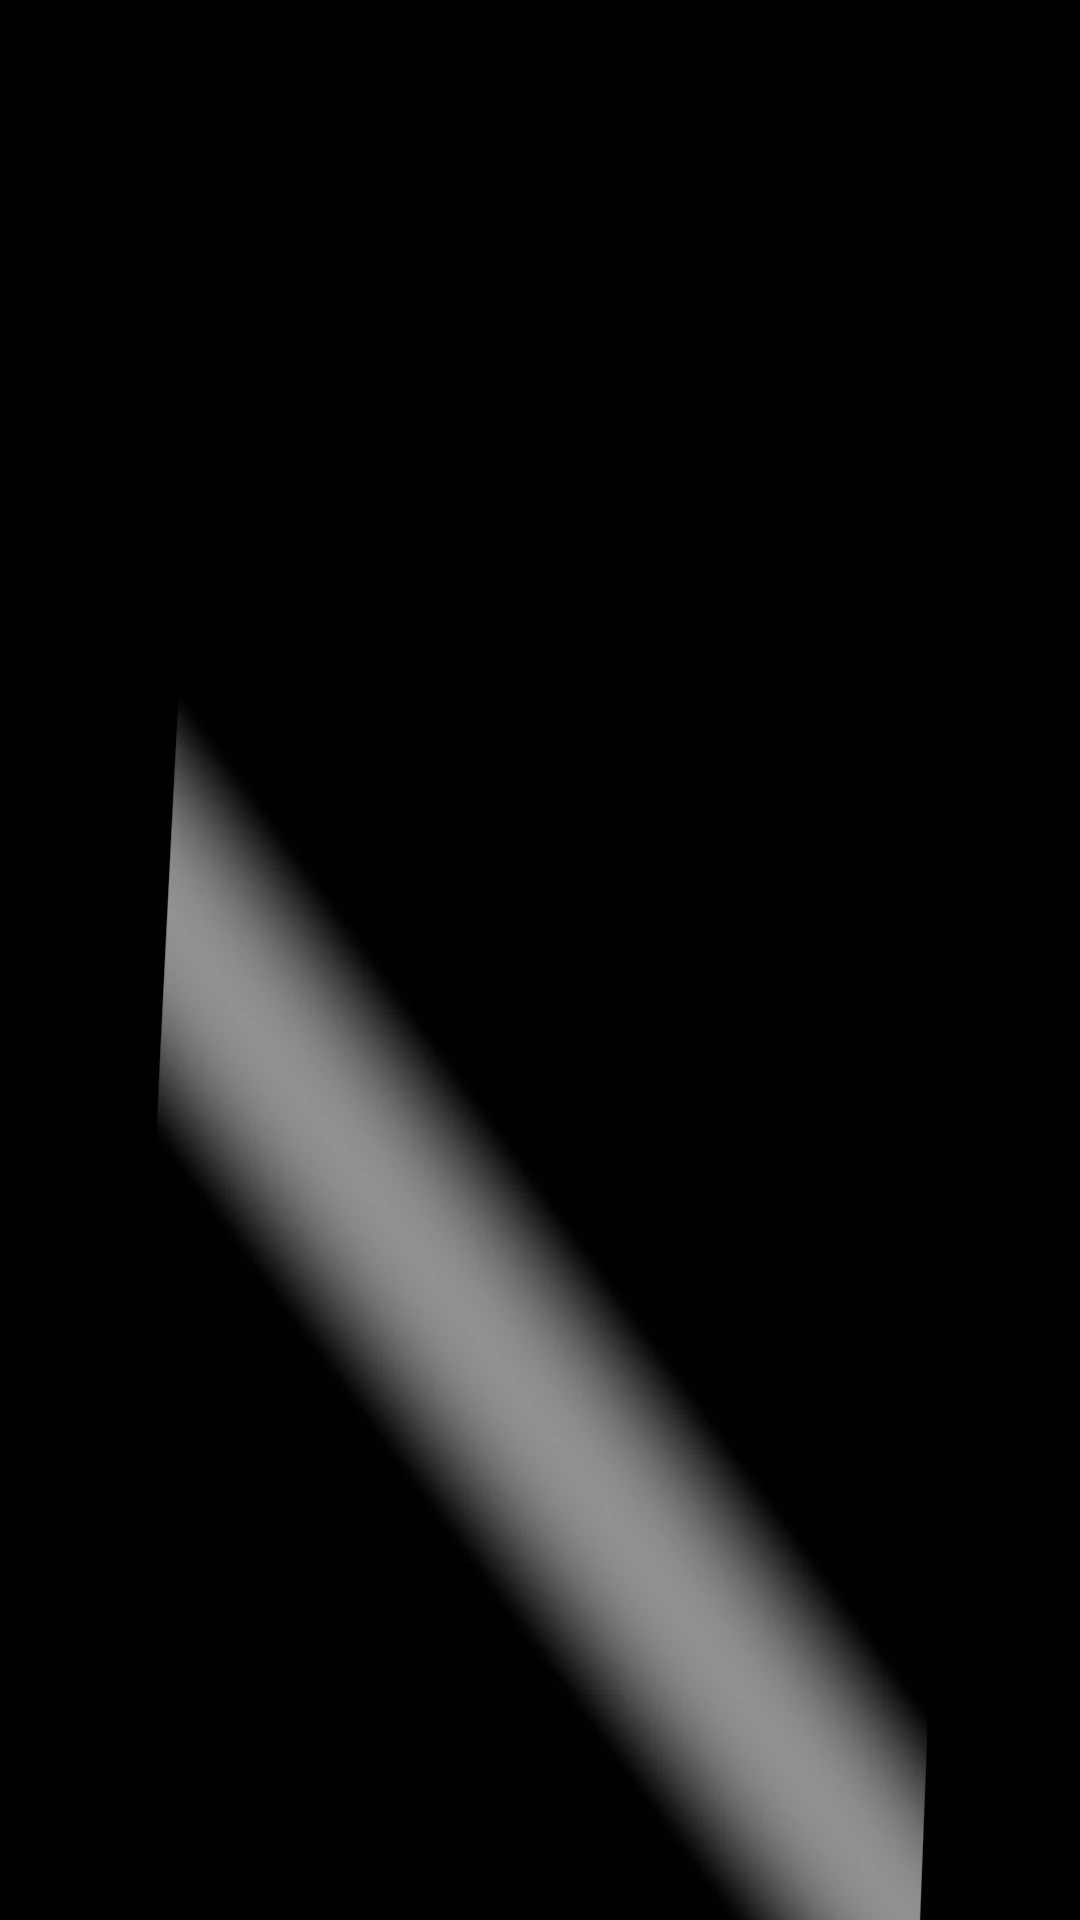
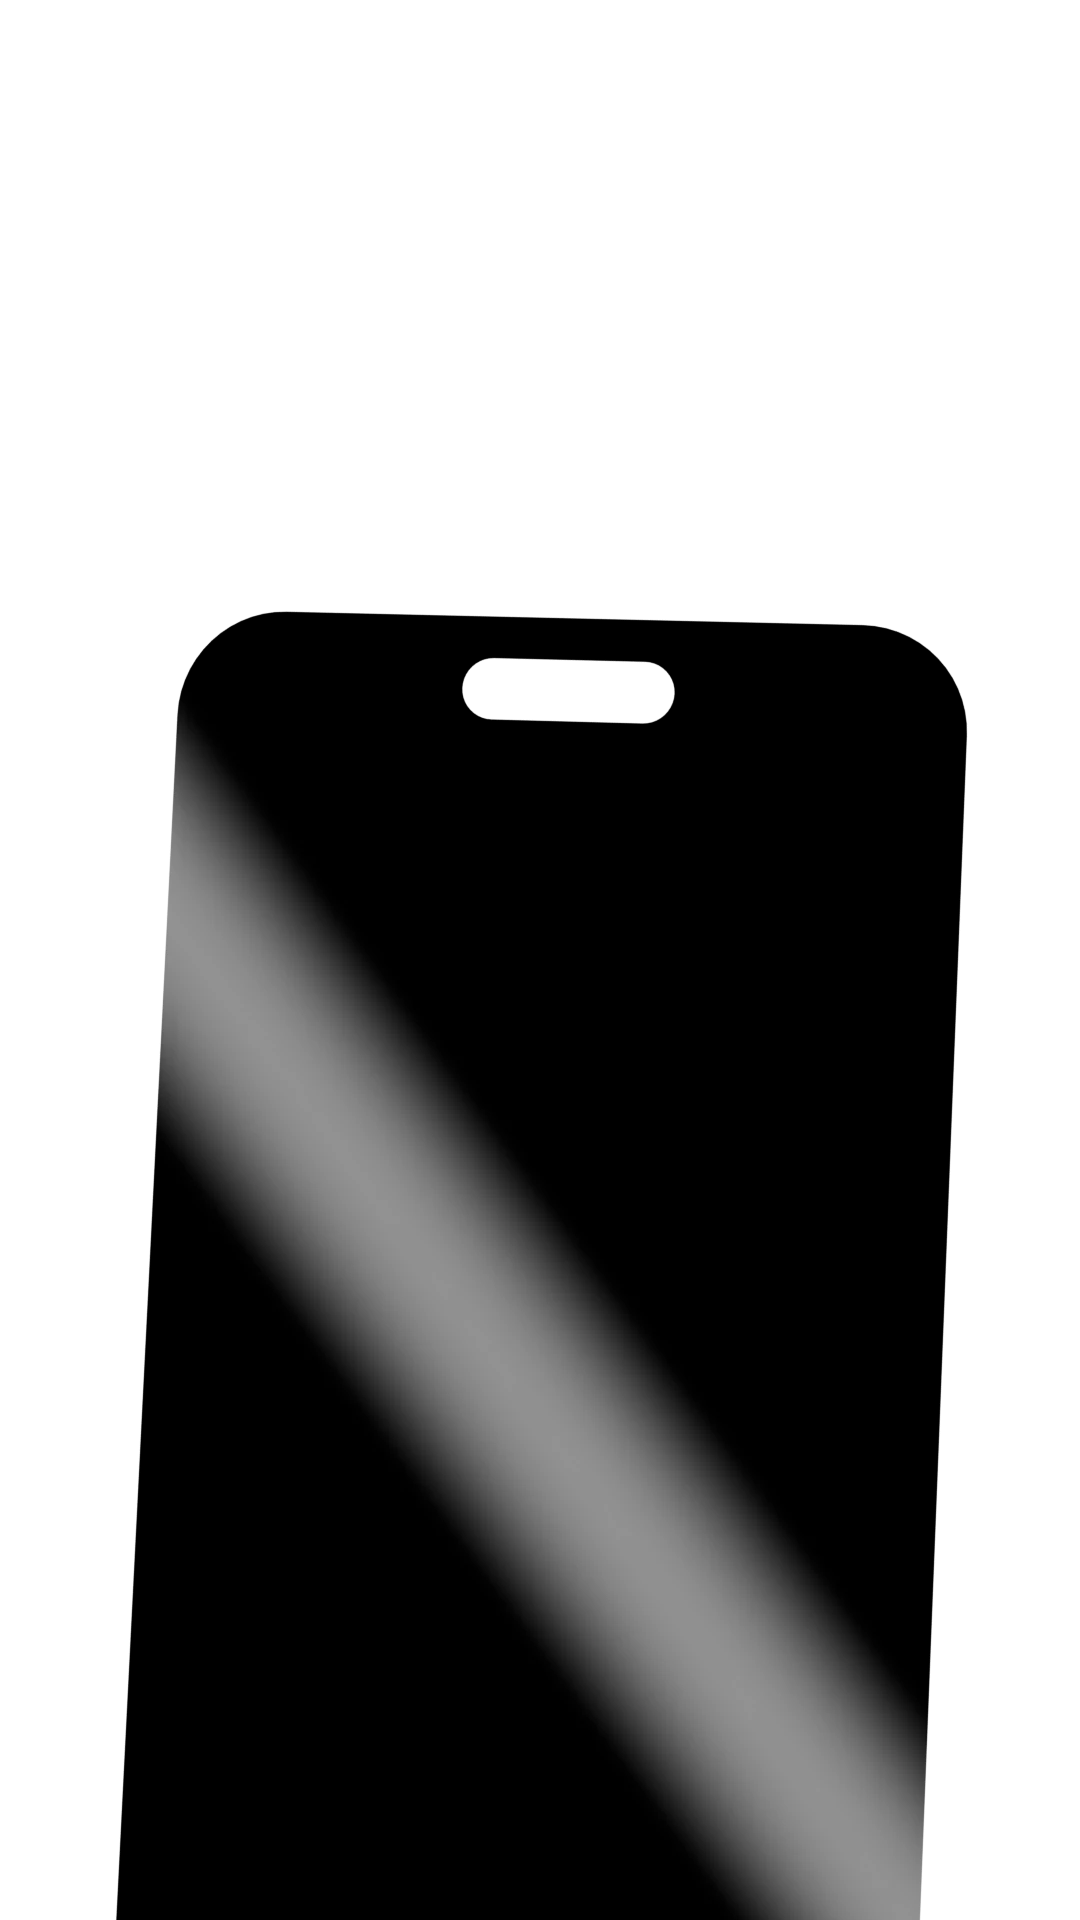
Vídeo: giro completo do celular, reflexo da tela com transparência e barra de status
Claude-Session: https://claude.ai/code/session_014CFV4YqhbK1feddGqeVc6C

diff --git a/video/stage.html b/video/stage.html
@@ -94,7 +94,7 @@ em { font-family: var(--serif); font-style: italic; font-weight: 400; letter-spa
 .chat-head b { display: block; font-family: var(--heading); font-size: 38px; font-weight: 700; letter-spacing: -.02em; }
 .chat-head small { display: block; font-size: 26px; opacity: .7; }
 .chat-body { position: relative; display: flex; flex-direction: column; gap: 22px; height: 100%; padding: 36px 32px 44px; background-image: radial-gradient(#d6ccbf 2px, transparent 2.4px); background-size: 26px 26px; }
-.bubble { max-width: 600px; padding: 22px 28px; border-radius: 30px; font-size: 38px; line-height: 1.38; color: #24231f; box-shadow: 0 2px 2px #00000014; }
+.bubble { max-width: 660px; padding: 22px 28px; border-radius: 30px; font-size: 38px; line-height: 1.38; color: #24231f; box-shadow: 0 2px 2px #00000014; }
 .bubble.in { align-self: flex-start; background: var(--white); border-top-left-radius: 8px; transform-origin: 0 100%; }
 .bubble.out { align-self: flex-end; background: #d5f3c6; border-top-right-radius: 8px; transform-origin: 100% 100%; }
 .typing { position: absolute; left: 32px; top: 36px; display: flex; gap: 10px; padding: 28px 30px; border-radius: 30px; border-top-left-radius: 8px; background: var(--white); }

diff --git a/art/video_shots.py b/art/video_shots.py
@@ -233,10 +233,9 @@ def render(scene, path):
     return path
 
 
-def webp(png, target, alpha=True, quality=90):
+def webp(png, target, quality=90):
     os.makedirs(os.path.dirname(target), exist_ok=True)
-    pixel = ["-pix_fmt", "yuva420p"] if alpha else ["-pix_fmt", "yuv420p"]
-    subprocess.run(["ffmpeg", "-y", "-loglevel", "error", "-i", png, "-c:v", "libwebp", "-quality", str(quality), *pixel, target], check=True)
+    subprocess.run(["ffmpeg", "-y", "-loglevel", "error", "-i", png, "-c:v", "libwebp", "-quality", str(quality), "-pix_fmt", "yuva420p", target], check=True)
     return target
 
 
@@ -253,11 +252,10 @@ def screen_corners(scene, pose):
 
 
 def glass_pass(scene, phone, materials):
-    """Only the reflections on the screen glass, over black (the stage adds it with mix-blend-mode: screen)."""
+    """Only the screen glass with its reflections, transparent elsewhere (the stage adds it with
+    mix-blend-mode: screen, which needs the alpha: the phone layers form an isolated group)."""
     hidden = holdout("Hidden")
     dress(phone, materials, {name: hidden for name in materials if name != "Screen"})
-    scene.render.film_transparent = False
-    scene.render.image_settings.color_mode = "RGB"
 
 
 # ---------- shots ----------
@@ -275,7 +273,7 @@ def shot_screen(name, draft, folder, layout):
     }
     if not draft:
         webp(base, os.path.join(SHOTS, f"{name}.webp"))
-        webp(glare, os.path.join(SHOTS, f"{name}-glare.webp"), alpha=False)
+        webp(glare, os.path.join(SHOTS, f"{name}-glare.webp"))
 
 
 def shot_back(draft, folder):
